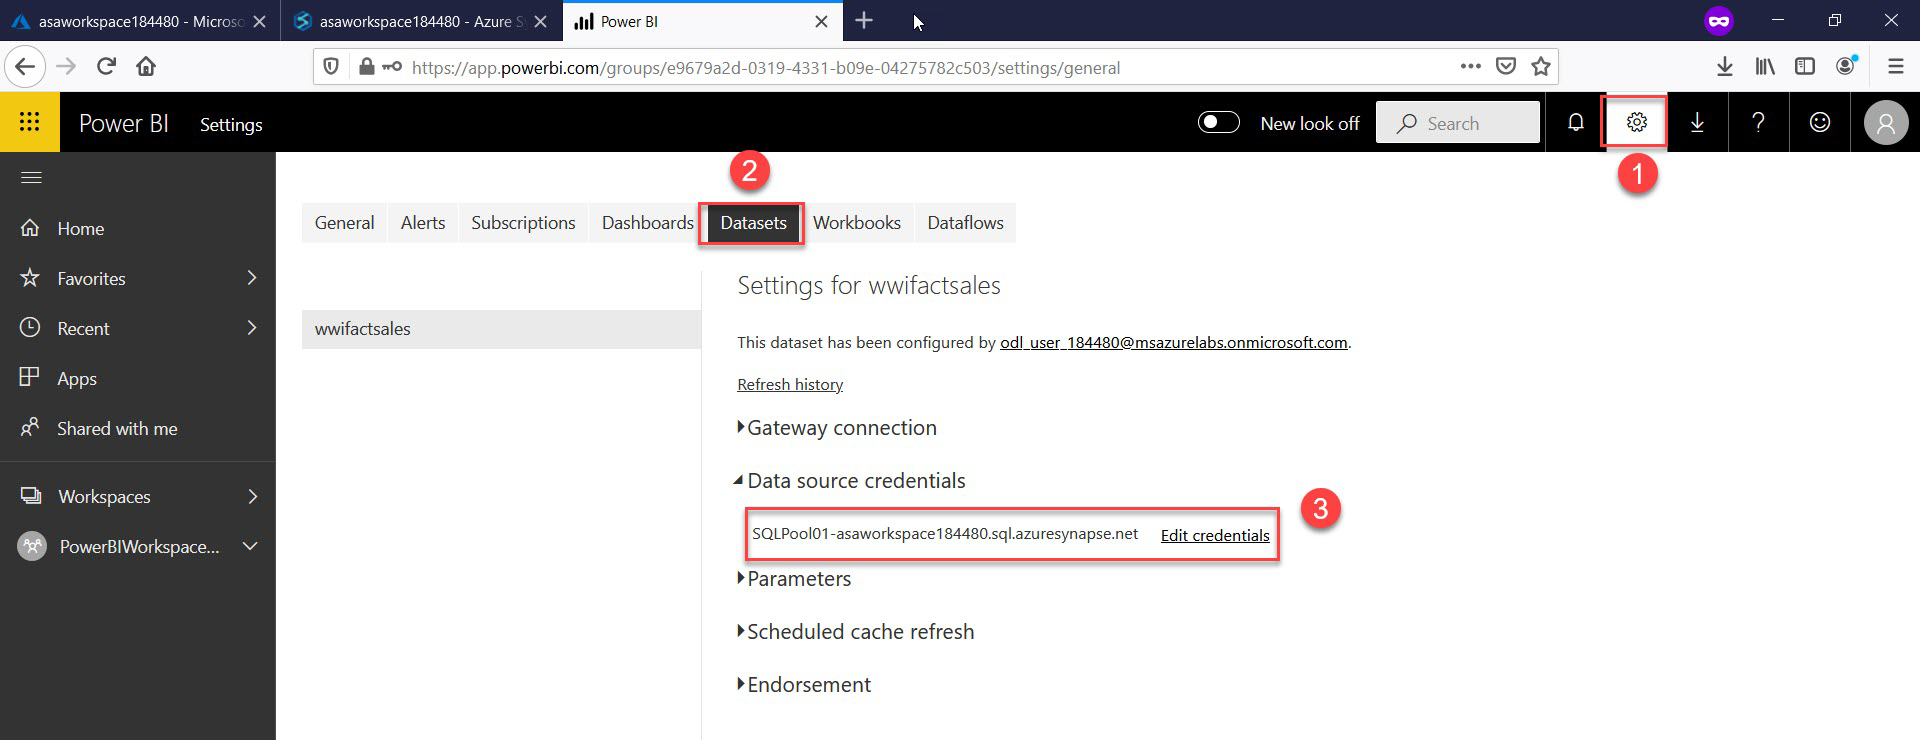
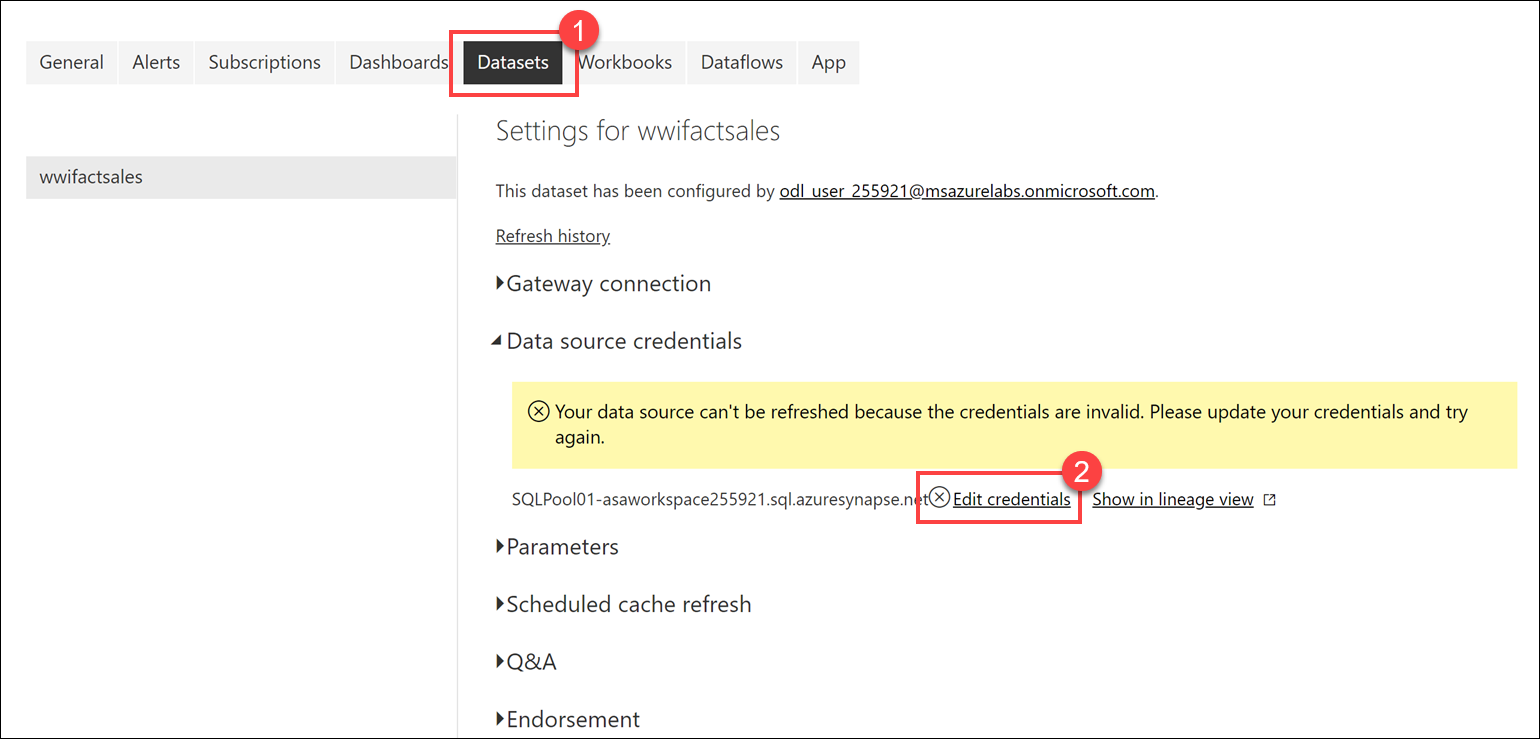
Completed changes to Exercise 3

diff --git a/03-power-bi-integration.md b/03-power-bi-integration.md
@@ -109,38 +109,63 @@ If you do not see a list of data fields under Fields, follow the steps below for
 2. Select `Workspaces` from the left menu and select the `PowerBIWorkspace` as shown in the screenshot.
 
    ![Selecting the right workspace to work on](media/ex03-selecting-workspace.png "Selecting the right workspace to work on")
-   
-3. Navigate to **Settings** and select **Datasets** tab. From the list of datasets select `wwifactsales` to enter new **Data Source credentials**.
+
+3. Navigate to **Settings**, then select **Settings** from the menu.
+
+   ![The Settings menu is displayed.](media/pbi-settings.png "Settings")
+
+4. Select the **Datasets** tab. From the list of datasets select `wwifactsales`, then select **Edit credentials** underneath the **Data Source credentials** section.
 
    ![Changing settings for the wwifactsales dataset](media/ex03-setting-dataset-credentials.png "Changing settings for the wwifactsales dataset")
-   
-4. Under **Authentication Method** select `OAuth2` and select **Sign In**.
+
+5. Under **Authentication Method** select `OAuth2` and select **Sign In**.
 
    ![Selecting the right workspace to work on](media/ex03-enter-dataset-credentials.png "Selecting the right workspace to work on")
-   
-5. Navigate back to your Synapse workspace in the previous tab and **refresh** the browser window to continue with the lab.
 
----
+6. Navigate back to your Synapse workspace in the previous tab and select the **refresh** button above the Fields list in the Power BI report. After a few seconds, you should see the list of fields below. Alternatively, you may refresh your browser window.
 
-3. Within the Power BI designer, under Fields, select the fields **SalespersonKey** and **TotalExcludingTax**.
+   ![The refresh button above the fields list is highlighted.](media/ex03-pbi-refresh.png "Refresh")
 
-   ![Selecting the fields from the Fields list](media/ex03-pbi-choose-fields.png "Select fields")
+7. Within the Power BI designer, select **Line and clustered column chart** under Visualizations.
 
-4. Under the Visualizations, drag the **SalespersonKey** field and drop it into the **Legend** field.
+   ![The visualization is highlighted.](media/ex03-pbi-line-clustered-column-chart-vis.png "Line and clustered column chart")
 
-   ![Setting the Legend field](media/ex03-pbi-set-legend.png "Set legend field")
+8. Drag the **SalespersonKey** field into **Shared axis** for the visualization. Then drag the **TotalExcludingTax** field into **Column values**. Finally, drag the **Profit** field into **Line values**.
 
-5. Under Visualizations, select the `100% Stacked column chart` visualization. You should now have a chart that lets you quickly assess each sales person's contribution to the total.
+   ![The field values are displayed as described above.](media/ex03-visualization-fields.png "Visualization fields")
 
-   ![Selecting the 100% Stacked column chart](media/ex03-pbi-stacked-col-viz.png "Select chart type")
+9. Resize the line and clustered column chart visualization to fit the report area. Your visualization should look like the following:
 
-6. From the file menu within the designer, select **Save As**.
+   ![The visualization is highlighted on the report canvas.](media/ex03-pbi-visualization-no-filter.png "Completed visualization")
 
-   ![Selecting Save As from the File menu](media/ex03-file-save-as.png "Save As")
+10. Under the **Filters** pane, expand the **Profit** filter. Select **is greater than** under `Show items when the value:`, then enter **50000000** for the value. Select **Apply filter**.
 
-7. In the dialog that appears, provide a unique name for your report that included your _UNIQUEID_ from your username (e.g.,`keysales206184`) and then select **Save**.
-   > Note: Replace the `uniqueId` with the **UniqueId** provided in the environment details section on Lab Environment tab on the right.
-   
-   ![The Save your report dialog](media/ex03-pbireport.png "Save report")
+    ![The filter is configured as described above.](media/ex03-pbi-apply-filter.png "Profit filter")
 
-8. This report is now available to all authorized users within Synapse Analytics Studio and the Power BI workspace.
+11. After a few seconds, you should see the visualization change, based on the filter. In this case, we narrow down the results to only those where the total profit amount is greater than $50 million. Since we are using Direct Query, Power BI pushed down the filter to the dedicated SQL pool (SQLPool01) to execute a new query based on the filter parameters. The pool sent back the results to Power BI to re-render the chart. Since we are dealing with a very large number of records (over 12 million), harnessing the power of the dedicated SQL pool to aggregate and filter the data rather than importing them and using the Power BI engine to do the work is much more efficient.
+
+    ![The filtered visualization is displayed.](media/ex03-pbi-filtered-visualization.png "Filtered visualization")
+
+12. From the file menu within the designer, select **Save As**.
+
+    ![Selecting Save As from the File menu](media/ex03-file-save-as.png "Save As")
+
+13. In the dialog that appears, enter **Key Sales by Person** for the name, then select **Save**.
+
+    ![The save dialog is displayed.](media/ex03-pbi-save-report.png "Save your report")
+
+14. This report is now available to all authorized users within Synapse Analytics Studio and the Power BI workspace.
+
+## Task 3 - View the SQL query
+
+1. Navigate to the **Monitor** hub.
+
+   ![Monitor hub.](media/monitor-hub.png "Monitor hub")
+
+2. Select **SQL requests** in the left-hand menu **(1)**, then select **SQLPool01** under the Pool filter **(2)**. Look at the list of recent queries executed by your lab username as the Submitter. Hover over one of these queries to see the **Request content** button next to the `SQL request ID` value **(3)** to view the executed query.
+
+   ![The list of SQL requests is displayed.](media/ex03-sql-requests.png "SQL requests")
+
+3. View the request content of the queries until you find one that contains the SQL SELECT statement executed by your filter in the Power BI report. Here you can see the `Profit` and `TotalExcludingTax` fields contain the SUM aggregate, and the `wwi.FactSale` table is grouped by `SalespersonKey`. There is a WHERE clause that filters the rows by `Profit` (aliased as `a0`) where the value is greater than or equal to `50000000` ($50 million). Power BI generated the SQL script, then used the dedicated SQL pool to execute the query and send back the results.
+
+   ![The SQL query is displayed as described above.](media/ex03-pbi-sql-statement.png "Request content")
